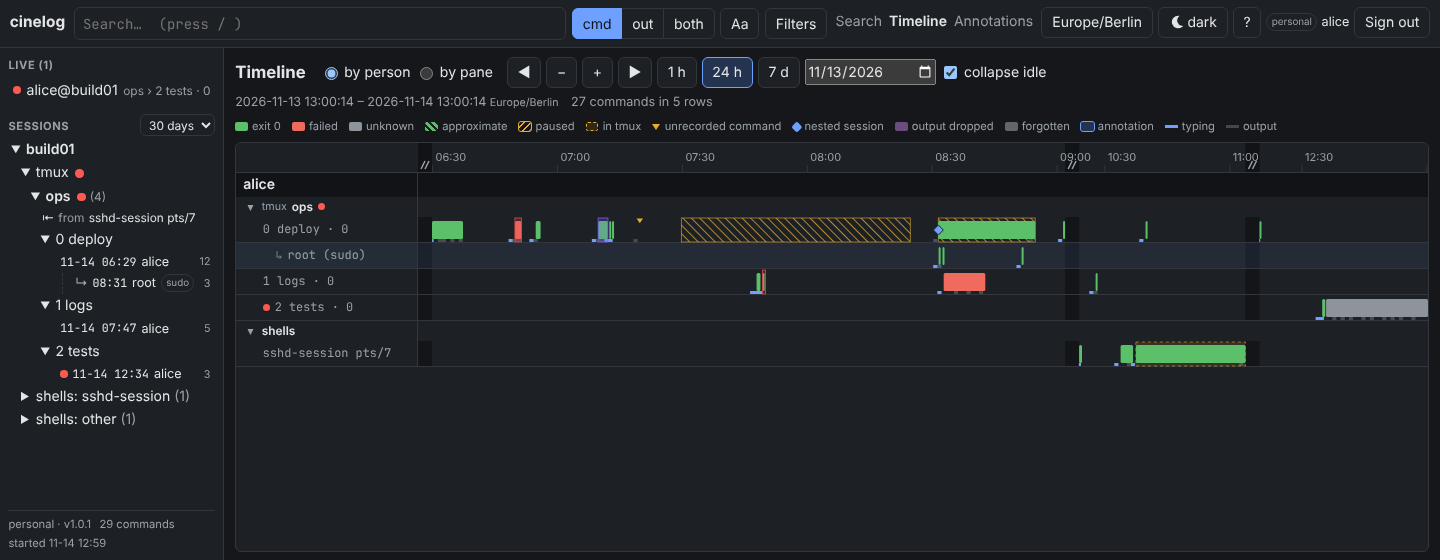
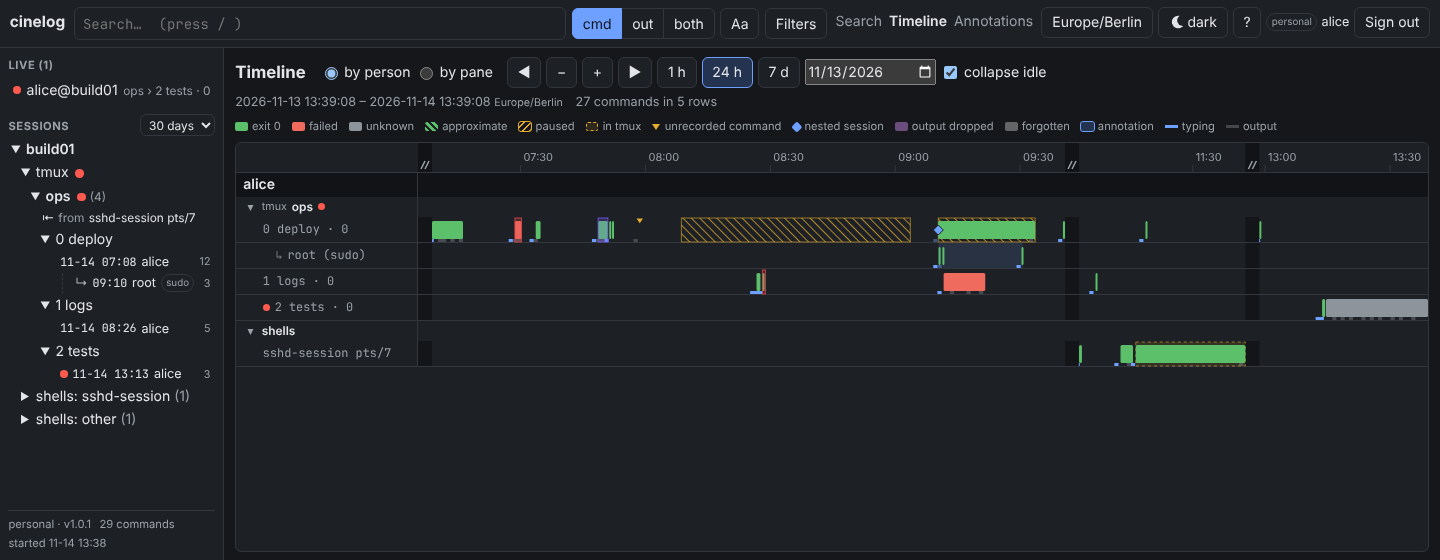
timeline: shade a nested row from the start to the end of its sessions
The band over the whole row said nothing; one span per nested session
shows how long that shell existed, under its parent's sudo command.

Claude-Session: https://claude.ai/code/session_01HfYsRsoJnP2BofQpoNx2Zs

diff --git a/web/src/routes/timeline/TimelineChart.svelte b/web/src/routes/timeline/TimelineChart.svelte
@@ -32,6 +32,7 @@
     ROW_H,
     rowAt,
     sessionMap,
+    sessionSpans,
     type BlockAt,
     type BlockRef,
     type DensityBar,
@@ -408,7 +409,6 @@
             <div
               class="row-label"
               class:grouped={r.row.group !== null && lane.items[0]?.kind === 'group'}
-              class:nested={r.row.depth > 0}
               style:height={`${ROW_H}px`}
               style:--depth={r.row.depth}
               title={`${r.row.depth > 0 ? 'nested shell: ' : ''}${r.row.user}@${r.row.host}${r.row.tmux.pane ? ` tmux pane ${r.row.tmux.pane}` : ''}${r.row.tty ? ` ${r.row.tty}` : ''}${r.row.holder_comm ? ` (${r.row.holder_comm})` : ''}`}
@@ -467,7 +467,11 @@
 
         {#each lay.rows as r (r.row.key)}
           <g transform={`translate(0 ${r.y})`} data-testid="tl-row-plot" data-key={r.row.key}>
-            {#if r.row.depth > 0}<rect class="nested-band" x="0" y="0" width={scale.width} height={ROW_H - 1} data-testid="tl-nested-band" />{/if}
+            {#if r.row.depth > 0}
+              {#each sessionSpans(r.row, scale, now) as s, si (si)}
+                <rect class="nested-band" x={s.x} y="0" width={s.w} height={ROW_H - 1} rx="2" data-testid="tl-nested-band" />
+              {/each}
+            {/if}
             <line class="row-line" x1="0" x2={scale.width} y1={ROW_H - 0.5} y2={ROW_H - 0.5} />
             {#each marks[r.index]! as m, mi (mi)}
               {#if !m.point}
@@ -656,13 +660,10 @@
     padding-left: calc(1.1rem + var(--depth, 0) * 0.9rem);
     border-bottom: 1px solid var(--border);
   }
-  /* A nested shell (sudo inside the row above) is shaded, label and plot. */
-  .row-label.nested {
-    background: color-mix(in srgb, var(--accent) 9%, var(--bg-elev));
-  }
+  /* A nested shell (sudo inside the row above) is shaded from its start to its end. */
   .nested-band {
     fill: var(--accent);
-    fill-opacity: 0.09;
+    fill-opacity: 0.14;
   }
   .row-label.grouped {
     padding-left: calc(1.9rem + var(--depth, 0) * 0.9rem);

diff --git a/web/src/routes/timeline/layout.test.ts b/web/src/routes/timeline/layout.test.ts
@@ -30,6 +30,7 @@ import {
   rowAt,
   sessionEnd,
   sessionMap,
+  sessionSpans,
 } from './layout';
 import { TimeScale } from './scale';
 
@@ -186,6 +187,21 @@ describe('layout', () => {
       ['focus', 120, 60],
     ]);
     expect(activityRuns(row('d', [], { activity: [bin(-500, 1), bin(990, 1)] }), undefined, 60, scale)).toEqual([{ kind: 'typed', x: 990, w: 10 }]);
+  });
+
+  it('spans a row\'s sessions from start to end', () => {
+    const r = row('n', [], {
+      sessions: [
+        session({ uuid: 'a', started_at: 100, ended_at: 300 }),
+        session({ uuid: 'b', started_at: 600, ended_at: null, state: 'live' }),
+        session({ uuid: 'c', started_at: 2000, ended_at: 2100 }),
+      ],
+    });
+    // The live one is drawn to now; the one after the window is left out.
+    expect(sessionSpans(r, scale, 750)).toEqual([
+      { x: 100, w: 200 },
+      { x: 600, w: 150 },
+    ]);
   });
 
   it('colours by exit', () => {

diff --git a/web/src/routes/timeline/layout.ts b/web/src/routes/timeline/layout.ts
@@ -311,6 +311,24 @@ export function markGeoms(
   return out;
 }
 
+// ------------------------------------------------------------------ session extents
+
+/**
+ * Where the sessions of a row existed: one span per session from its start to its end (now
+ * while live), clipped to `[0, width]`. Drawn as the shade of a nested row.
+ */
+export function sessionSpans(row: TimelineRow, scale: TimeScale, now: number): { x: number; w: number }[] {
+  const out: { x: number; w: number }[] = [];
+  for (const s of row.sessions) {
+    const end = sessionEnd(s, now) ?? scale.to;
+    const x0 = Math.max(0, scale.x(s.started_at));
+    const x1 = Math.min(scale.width, scale.x(Math.max(s.started_at, end)));
+    if (x1 <= 0 || x0 >= scale.width) continue;
+    out.push({ x: x0, w: Math.max(MIN_SPAN_PX, x1 - x0) });
+  }
+  return out;
+}
+
 // ------------------------------------------------------------------ activity
 
 /**
